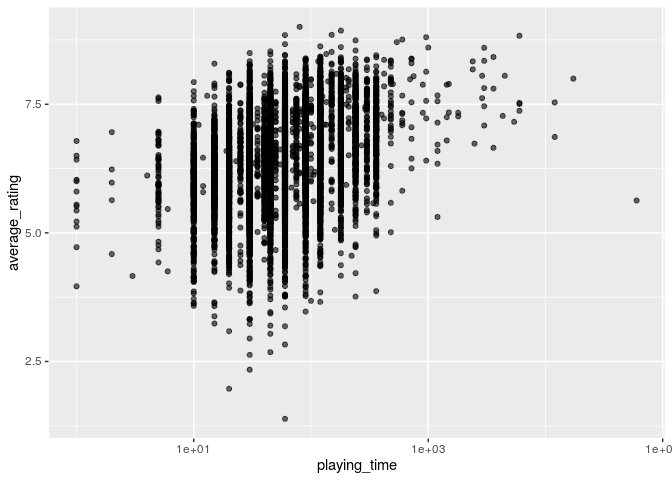
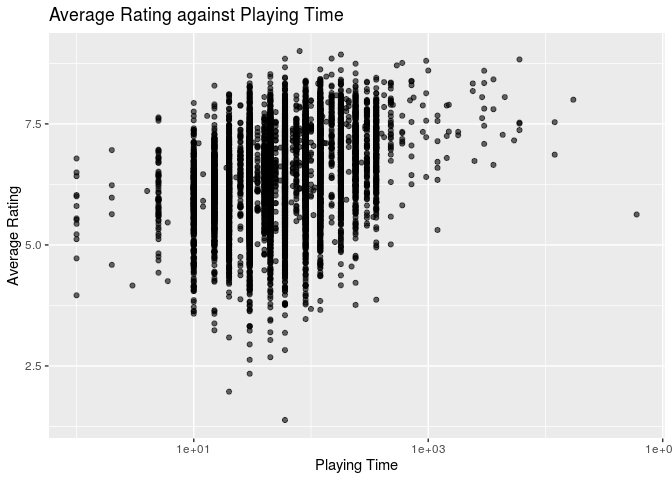
adding playing_time to presentation

diff --git a/presentation/presentation.html b/presentation/presentation.html
@@ -113,7 +113,11 @@ Note that each of these vertical lines represents one of the 6 categories
 ---
 
 # Playing time
+&lt;img src="presentation_files/figure-html/first_plot-1.png" width="80%" /&gt;
 
+
+---
+&lt;img src="presentation_files/figure-html/model_graph-1.png" width="80%" /&gt;
 ---
 
 # Users rated

diff --git a/extra/testing.md b/extra/testing.md
@@ -28,7 +28,8 @@ board_games %>%
   filter(playing_time != 0) %>%
   ggplot(aes(playing_time, average_rating)) +
   geom_point(alpha = 0.6) +
-  scale_x_log10()
+  scale_x_log10() +
+  labs(title = "Average Rating against Playing Time", x = "Playing Time", y = "Average Rating")
 ```
 
 ![](testing_files/figure-gfm/log_scale-1.png)<!-- -->
@@ -119,16 +120,6 @@ games_play_pred %>%
 ![](testing_files/figure-gfm/predict-1.png)<!-- -->
 
 ``` r
-glance(games_play_fit %>% pull_workflow_fit())
-```
-
-    ## # A tibble: 1 x 12
-    ##   r.squared adj.r.squared sigma statistic   p.value    df logLik    AIC    BIC
-    ##       <dbl>         <dbl> <dbl>     <dbl>     <dbl> <dbl>  <dbl>  <dbl>  <dbl>
-    ## 1     0.121         0.121 0.786     1119. 6.46e-230     1 -9585. 19175. 19196.
-    ## # … with 3 more variables: deviance <dbl>, df.residual <int>, nobs <int>
-
-``` r
 # this code is doing the same as above, creating a data frame
 # of the predicted average values from the model with 
 # `playing_time` and `min_playtime`
@@ -140,7 +131,7 @@ games_play_all_pred <- predict(games_play_all_fit, test_data) %>%
 # average rating from the simple model and the model with both
 # variables in one place compared to the actual `average_rating`
 
-games_play_all_pred %>%
+predict_both <- games_play_all_pred %>%
   mutate(.pred_all = .pred, .keep = "unused") %>%
   right_join(games_play_pred) %>%
   select(.pred, .pred_all, average_rating, everything())
@@ -148,24 +139,19 @@ games_play_all_pred %>%
 
     ## Joining, by = c("game_id", "description", "image", "max_players", "max_playtime", "min_age", "min_players", "min_playtime", "name", "playing_time", "thumbnail", "year_published", "artist", "category", "compilation", "designer", "expansion", "family", "mechanic", "publisher", "average_rating", "users_rated")
 
-    ## # A tibble: 2,034 x 24
-    ##    .pred .pred_all average_rating game_id description image max_players
-    ##    <dbl>     <dbl>          <dbl>   <dbl> <chr>       <chr>       <dbl>
-    ##  1  6.42      6.37           6.61       4 When you s… //cf…           4
-    ##  2  6.42      6.37           6.75      10 Elfenland … //cf…           6
-    ##  3  6.33      6.28           7.07      11 Bohnanza i… //cf…           7
-    ##  4  6.42      6.51           7.48      12 Ra is an a… //cf…           5
-    ##  5  6.64      7.04           7.15      18 The robots… //cf…           8
-    ##  6  6.55      6.48           7.44      20 In this ga… //cf…           4
-    ##  7  6.86      6.76           7.14      22 From the 2… //cf…          16
-    ##  8  6.20      6.17           6.04      32 In Bison, … //cf…           2
-    ##  9  6.64      6.56           5.70      37 This odd l… //cf…           4
-    ## 10  6.42      6.37           6.45      44 This game … //cf…           6
-    ## # … with 2,024 more rows, and 17 more variables: max_playtime <dbl>,
-    ## #   min_age <dbl>, min_players <dbl>, min_playtime <dbl>, name <chr>,
-    ## #   playing_time <dbl>, thumbnail <chr>, year_published <dbl>, artist <chr>,
-    ## #   category <chr>, compilation <chr>, designer <chr>, expansion <chr>,
-    ## #   family <chr>, mechanic <chr>, publisher <chr>, users_rated <dbl>
+``` r
+predict_both %>%
+    ggplot(aes(x = playing_time)) +
+  geom_point(aes(y = average_rating)) +
+  geom_line(aes(y = .pred), colour = "red") +
+  geom_line(aes(y = .pred_all), coloiur = "green") +
+  scale_x_log10() +
+  labs(x = "Average Playing Time", y = "Average Rating")
+```
+
+    ## Warning: Ignoring unknown parameters: coloiur
+
+![](testing_files/figure-gfm/predict-2.png)<!-- -->
 
 ## Evaluating my models
 
@@ -196,19 +182,6 @@ rmse(games_play_all_pred, average_rating, .pred)
 #evaluating my average_rating ~ playing_time + min_playtime model using chi squared and root mean square error
 ```
 
-``` r
-set.seed(450)
-
-folds <- vfold_cv(train_data, v = 50)
-
-# fit resampling
-
-set.seed(451)
-
-games_play_fit_rs <- games_play_workflow %>%
-  fit_resamples(folds)
-```
-
     ## 
     ## Attaching package: 'rlang'
 
@@ -229,9 +202,7 @@ games_play_fit_rs <- games_play_workflow %>%
     ## 
     ##     data_frame
 
-``` r
-collect_metrics(games_play_fit_rs)
-```
+Evaluating my model with only `playing_time` variable  
 
     ## # A tibble: 2 x 6
     ##   .metric .estimator  mean     n std_err .config             
@@ -239,12 +210,13 @@ collect_metrics(games_play_fit_rs)
     ## 1 rmse    standard   0.784    50 0.00800 Preprocessor1_Model1
     ## 2 rsq     standard   0.127    50 0.00722 Preprocessor1_Model1
 
-``` r
-games_play_all_fit_rs <- games_play_all_workflow %>%
-  fit_resamples(folds)
+    ## # A tibble: 1 x 12
+    ##   r.squared adj.r.squared sigma statistic   p.value    df logLik    AIC    BIC
+    ##       <dbl>         <dbl> <dbl>     <dbl>     <dbl> <dbl>  <dbl>  <dbl>  <dbl>
+    ## 1     0.121         0.121 0.786     1119. 6.46e-230     1 -9585. 19175. 19196.
+    ## # … with 3 more variables: deviance <dbl>, df.residual <int>, nobs <int>
 
-collect_metrics(games_play_all_fit_rs)
-```
+evaluating my model with `playing_time` and `min_playtime` variables
 
     ## # A tibble: 2 x 6
     ##   .metric .estimator  mean     n std_err .config             
@@ -252,6 +224,12 @@ collect_metrics(games_play_all_fit_rs)
     ## 1 rmse    standard   0.770    50 0.00801 Preprocessor1_Model1
     ## 2 rsq     standard   0.161    50 0.00746 Preprocessor1_Model1
 
-We can see from comparing the 2 RMSE and rsq mean values that the model
-that includes `min_playtime` as well as `playing_time` is a better
-model, however this does not mean that either are good models.
+    ## # A tibble: 1 x 12
+    ##   r.squared adj.r.squared sigma statistic   p.value    df logLik    AIC    BIC
+    ##       <dbl>         <dbl> <dbl>     <dbl>     <dbl> <dbl>  <dbl>  <dbl>  <dbl>
+    ## 1     0.153         0.152 0.771      733. 2.43e-293     2 -9435. 18877. 18905.
+    ## # … with 3 more variables: deviance <dbl>, df.residual <int>, nobs <int>
+
+We can see from comparing the 2 RMSE and adjusted r squared mean values
+that the model that includes `min_playtime` as well as `playing_time` is
+a better model, however this does not mean that either are good models.
